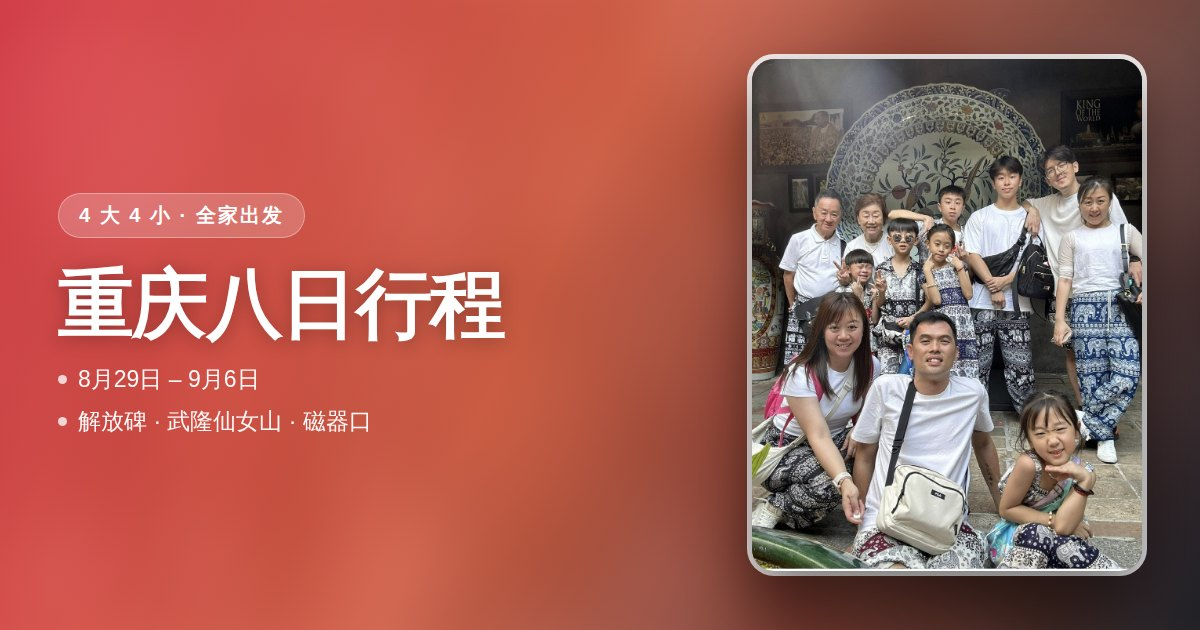
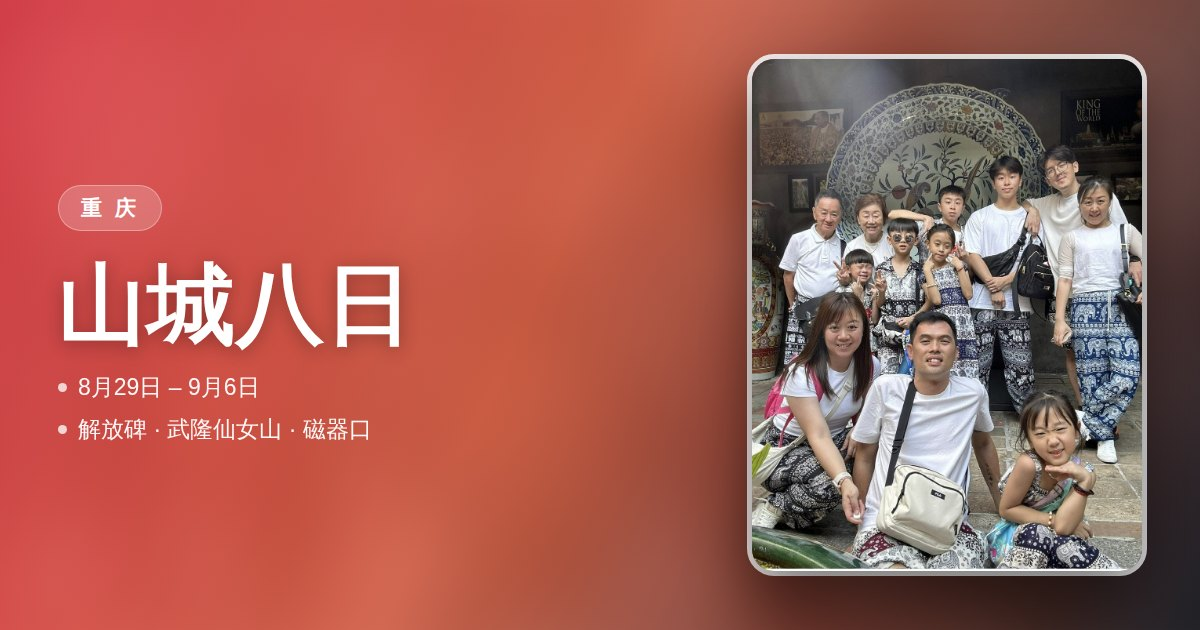
地名一律改用最广为人知的短名；点导航时同时复制地名
根因：我在凭推测拼长地名，而这些名字无法验证（本机连不上任何地图服务）。
高德是拿关键词匹配 POI 名称的，拼出来的组合名在库里根本不存在，
所以返回「未找到信息」——问题不在地图 App，在关键词。

改动：
  江北国际机场T3航站楼 → 江北国际机场
  仙女山国家森林公园   → 仙女山
  十八梯传统风貌区     → 十八梯
  小什字小商品市场     → 小什字
  李子坝轻轨观景台     → 李子坝
  重庆来福士广场       → 来福士广场
  长江索道北站         → 长江索道
  观音桥步行街         → 观音桥
  杨家坪步行街         → 杨家坪
  解放碑八一路美居酒店 → 解放碑美居酒店

保险：点右上角导航键时顺手把地名复制到剪贴板，
万一还是搜不到，可以直接粘进高德搜索框改，不用手打。

两家酒店的名字仍是推测值，已在代码注释里标明。

Claude-Session: https://claude.ai/code/session_01RF1BzpGCqagC7YnhUvvRrC

Changed region(s): [[0.0308, 0.2714, 0.4317, 0.6937]]

diff --git a/index.html b/index.html
@@ -7,30 +7,30 @@
 <meta name="theme-color" content="#edf0f1" media="(prefers-color-scheme: light)">
 <meta name="theme-color" content="#121a1c" media="(prefers-color-scheme: dark)">
 <meta name="apple-mobile-web-app-capable" content="yes">
-<meta name="apple-mobile-web-app-title" content="重庆行程">
+<meta name="apple-mobile-web-app-title" content="山城八日">
 <meta name="robots" content="noindex,nofollow">
 
 <!-- 分享到微信 / WhatsApp / iMessage 时显示的预览卡。
      og:image 必须是完整网址，写相对路径的话对方那边取不到图。
      换封面就替换 photos/cover.jpg（建议 1200x630），网址不用改。 -->
 <meta property="og:type" content="website">
-<meta property="og:site_name" content="重庆八日行程">
-<meta property="og:title" content="重庆八日行程 · 4 大 4 小">
-<meta property="og:description" content="8月29日 – 9月6日。逐日时间表、26 个景点讲解，打开自动带你到当前那一站。">
+<meta property="og:site_name" content="山城八日">
+<meta property="og:title" content="山城八日">
+<meta property="og:description" content="重庆 · 8月29日 – 9月6日。逐日时间表、26 个景点讲解，打开自动带你到当前那一站。">
 <meta property="og:url" content="https://touch-english.github.io/Marxxx/">
 <meta property="og:image" content="https://touch-english.github.io/Marxxx/photos/cover.jpg">
 <meta property="og:image:width" content="1200">
 <meta property="og:image:height" content="630">
-<meta property="og:image:alt" content="全家福 · 重庆八日行程">
+<meta property="og:image:alt" content="山城八日 · 全家福">
 <meta property="og:locale" content="zh_CN">
 <meta name="twitter:card" content="summary_large_image">
-<meta name="twitter:title" content="重庆八日行程 · 4 大 4 小">
-<meta name="twitter:description" content="8月29日 – 9月6日。逐日时间表、26 个景点讲解，打开自动带你到当前那一站。">
+<meta name="twitter:title" content="山城八日">
+<meta name="twitter:description" content="重庆 · 8月29日 – 9月6日。逐日时间表、26 个景点讲解，打开自动带你到当前那一站。">
 <meta name="twitter:image" content="https://touch-english.github.io/Marxxx/photos/cover.jpg">
 <!-- 微信有时只认这个 -->
 <link rel="image_src" href="https://touch-english.github.io/Marxxx/photos/cover.jpg">
 <link rel="apple-touch-icon" href="https://touch-english.github.io/Marxxx/photos/cover.jpg">
-<title>重庆八日 · 行程</title>
+<title>山城八日</title>
 <style>
 :root{
   --bg:#F7F4EF; --card:#FFFFFF; --card-2:#FBF9F6;
@@ -698,8 +698,8 @@ footer div+div{margin-top:6px}
 
   <!-- ============ 顶部 ============ -->
   <header class="mast">
-    <div class="kicker"><svg class="i"><use href="#i-cal"/></svg>8月29日 – 9月6日 · 4大4小</div>
-    <h1>重庆八日行程</h1>
+    <div class="kicker"><svg class="i"><use href="#i-cal"/></svg>8月29日 – 9月6日</div>
+    <h1>山城八日</h1>
     <div class="facts">
       <span class="fact"><svg class="i"><use href="#i-plane"/></svg>去 <b>8/29 20:05</b></span>
       <span class="fact"><svg class="i"><use href="#i-plane"/></svg>回 <b>9/6 02:35</b></span>
@@ -731,7 +731,7 @@ footer div+div{margin-top:6px}
         <div class="ev-b">新加坡起飞</div>
       </div>
     </li>
-    <li class="ev" data-time="01:15" data-map="江北国际机场T3航站楼">
+    <li class="ev" data-time="01:15" data-map="江北国际机场">
       <div class="ev-rail">
         <span class="ev-node" data-ic="plane"><svg class="i" aria-hidden="true"><use href="#i-plane"/></svg></span>
         <span class="ev-line"></span>
@@ -791,7 +791,7 @@ footer div+div{margin-top:6px}
         <div class="ev-b"><button class="poi" data-p="luohan">罗汉寺</button>（门票 ¥20）<span class="sub">五百罗汉堂，按年龄数罗汉。约 40 分钟<span class="walk">酒店步行 8 分钟</span></span></div>
       </div>
     </li>
-    <li class="ev" data-time="11:45" data-map="小什字小商品市场">
+    <li class="ev" data-time="11:45" data-map="小什字">
       <div class="ev-rail">
         <span class="ev-node" data-ic="shop"><svg class="i" aria-hidden="true"><use href="#i-shop"/></svg></span>
         <span class="ev-line"></span>
@@ -821,7 +821,7 @@ footer div+div{margin-top:6px}
         <div class="ev-b"><b>回酒店午休</b><span class="sub"><em>这一觉别省。</em>晚上要撑到 22:00</span></div>
       </div>
     </li>
-    <li class="ev" data-time="16:30" data-map="重庆来福士广场">
+    <li class="ev" data-time="16:30" data-map="来福士广场">
       <div class="ev-rail">
         <span class="ev-node" data-ic="sight"><svg class="i" aria-hidden="true"><use href="#i-sight"/></svg></span>
         <span class="ev-line"></span>
@@ -935,7 +935,7 @@ footer div+div{margin-top:6px}
         <div class="ev-b">欧悦酒店办入住，休息一小时</div>
       </div>
     </li>
-    <li class="ev" data-time="14:30" data-map="仙女山国家森林公园">
+    <li class="ev" data-time="14:30" data-map="仙女山">
       <div class="ev-rail">
         <span class="ev-node" data-ic="sight"><svg class="i" aria-hidden="true"><use href="#i-sight"/></svg></span>
         <span class="ev-line"></span>
@@ -1183,7 +1183,7 @@ footer div+div{margin-top:6px}
         <div class="ev-b"><button class="poi" data-p="dongwuyuan">重庆动物园</button>（成人 ¥25 / 儿童 ¥12.5）<span class="sub"><em>一进门直奔熊猫馆。</em>23 只大熊猫，上午 9 点和下午 3 点前后才活动，中午全在睡</span></div>
       </div>
     </li>
-    <li class="ev" data-time="12:00" data-map="杨家坪步行街" data-food="杨家坪">
+    <li class="ev" data-time="12:00" data-map="杨家坪" data-food="杨家坪">
       <div class="ev-rail">
         <span class="ev-node" data-ic="food"><svg class="i" aria-hidden="true"><use href="#i-food"/></svg></span>
         <span class="ev-line"></span>
@@ -1203,7 +1203,7 @@ footer div+div{margin-top:6px}
         <div class="ev-b">2 号线 动物园 → 李子坝<span class="sub"><span class="walk">约 15 分钟</span></span></div>
       </div>
     </li>
-    <li class="ev" data-time="14:00" data-map="李子坝轻轨观景台">
+    <li class="ev" data-time="14:00" data-map="李子坝">
       <div class="ev-rail">
         <span class="ev-node" data-ic="metro"><svg class="i" aria-hidden="true"><use href="#i-metro"/></svg></span>
         <span class="ev-line"></span>
@@ -1337,7 +1337,7 @@ footer div+div{margin-top:6px}
         <div class="ev-b">1 号线回小什字，<b>回酒店休息</b><span class="sub"><em>今天上午走的是山路，下午一定回来歇</em></span></div>
       </div>
     </li>
-    <li class="ev" data-time="18:30" data-map="观音桥步行街">
+    <li class="ev" data-time="18:30" data-map="观音桥">
       <div class="ev-rail">
         <span class="ev-node" data-ic="food"><svg class="i" aria-hidden="true"><use href="#i-food"/></svg></span>
         <span class="ev-line"></span>
@@ -1371,7 +1371,7 @@ footer div+div{margin-top:6px}
         <div class="ev-b">酒店早餐（最后一顿含早）</div>
       </div>
     </li>
-    <li class="ev" data-time="08:30" data-map="长江索道北站">
+    <li class="ev" data-time="08:30" data-map="长江索道">
       <div class="ev-rail">
         <span class="ev-node" data-ic="cablecar"><svg class="i" aria-hidden="true"><use href="#i-cablecar"/></svg></span>
         <span class="ev-line"></span>
@@ -1381,7 +1381,7 @@ footer div+div{margin-top:6px}
         <div class="ev-b">步行到长江索道北站<span class="sub">新华路 151 号<span class="walk">解放碑步行 10 分钟</span></span></div>
       </div>
     </li>
-    <li class="ev" data-time="09:00" data-map="长江索道北站">
+    <li class="ev" data-time="09:00" data-map="长江索道">
       <div class="ev-rail">
         <span class="ev-node" data-ic="cablecar"><svg class="i" aria-hidden="true"><use href="#i-cablecar"/></svg></span>
         <span class="ev-line"></span>
@@ -1411,7 +1411,7 @@ footer div+div{margin-top:6px}
         <div class="ev-b">步行东水门大桥回渝中 → <button class="poi" data-p="baixiangju">白象居</button><span class="sub">桥有人行道，脚下是长江头顶是轻轨；桥北头落点就是白象居<span class="walk">约 800 米 · 也可打车 10 分钟</span></span></div>
       </div>
     </li>
-    <li class="ev" data-time="11:00" data-map="十八梯传统风貌区">
+    <li class="ev" data-time="11:00" data-map="十八梯">
       <div class="ev-rail">
         <span class="ev-node" data-ic="walk"><svg class="i" aria-hidden="true"><use href="#i-walk"/></svg></span>
         <span class="ev-line"></span>
@@ -1501,7 +1501,7 @@ footer div+div{margin-top:6px}
         <div class="ev-b">回酒店取行李，接上在房间休息的人</div>
       </div>
     </li>
-    <li class="ev" data-time="22:30" data-map="江北国际机场T3航站楼">
+    <li class="ev" data-time="22:30" data-map="江北国际机场">
       <div class="ev-rail">
         <span class="ev-node" data-ic="plane"><svg class="i" aria-hidden="true"><use href="#i-plane"/></svg></span>
         <span class="ev-line"></span>
@@ -1511,7 +1511,7 @@ footer div+div{margin-top:6px}
         <div class="ev-b">出发江北机场 T3<span class="sub"><span class="walk">约 40 分钟</span></span></div>
       </div>
     </li>
-    <li class="ev" data-time="23:15" data-map="江北国际机场T3航站楼">
+    <li class="ev" data-time="23:15" data-map="江北国际机场">
       <div class="ev-rail">
         <span class="ev-node" data-ic="plane"><svg class="i" aria-hidden="true"><use href="#i-plane"/></svg></span>
         <span class="ev-line"></span>
@@ -2464,9 +2464,10 @@ xhs:'乌江画廊 龚滩'}
   'use strict';
 
   /* ⚠ 两家酒店的名字写在这里，改这两行就能改全站。
-     出发前请跟导游核对一次准确名称，避免高德搜到同名的别家分店。 */
+     这两个名字我无法验证（这台机器连不上地图服务），是按品牌+位置推出来的。
+     到了当地在高德里搜一次，把它实际显示的完整名称抄过来替换，命中率最高。 */
   var HOTELS = {
-    jiefangbei: '解放碑八一路美居酒店',
+    jiefangbei: '解放碑美居酒店',
     wulong:     '仙女山欧悦酒店'
   };
 
@@ -2512,6 +2513,10 @@ xhs:'乌江画廊 龚滩'}
     a.title = '在高德地图打开：' + dest;
     a.setAttribute('aria-label', '导航到 ' + dest);
     a.innerHTML = icon('nav');
+    // 顺手复制地名：万一高德搜不到，可以直接粘贴到搜索框里改
+    a.addEventListener('click', function(){
+      try { copyText(dest); } catch (e) {}
+    });
     card.appendChild(a);
   });
 
